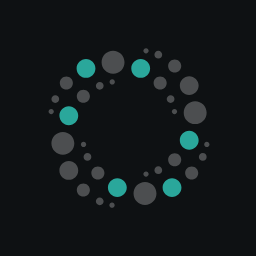
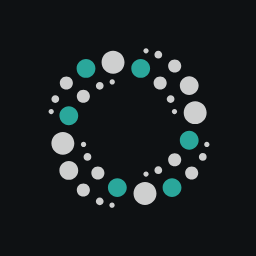
feat(brand): brighten the mark's non-brand dots to near-white
They sat at 26% opacity on every surface the mark appears on. On the
graphite icon tile that resolves to roughly #3F4142, so at the 32px the
extensions list actually renders only the six teal dots read and the rest
of the ring collapsed into a smudge.

The icon sources go to 80% white rather than a flat #FFFFFF: rendered
side by side at 0.26/0.45/0.6/0.75/0.9/1.0, full white outnumbers the six
teal dots and the mark stops reading as teal at thumbnail size. The
sidebar gauge takes 85% of currentColor for both its unlit and texture
dots — hardcoding white there would invert on the light theme, where the
mark sits on #f3f3f3. Lit dots still differ from unlit in hue, so the
window count stays readable.

diff --git a/src/webview/styles.ts b/src/webview/styles.ts
@@ -14,11 +14,13 @@ export const CSS = `
 
   /* The mark is the sidebar's status display: lit dots are open Agent Flow
      windows. Unlit and texture dots ride the theme foreground so the ring keeps
-     its shape on any background. */
+     its shape on any background, and sit just under it rather than at a quarter
+     of it — at .26 the ring read as a smudge at 15px. The count stays legible
+     because lit/unlit differ in hue, not only in weight. */
   .gauge { flex: none; display: block; }
   .gauge .lit { fill: var(--brand); }
-  .gauge .unlit { fill: currentColor; opacity: .26; }
-  .gauge .tex { fill: currentColor; opacity: .4; }
+  .gauge .unlit { fill: currentColor; opacity: .85; }
+  .gauge .tex { fill: currentColor; opacity: .85; }
   /* The pool's one filled control is Take. Explore is the way out when no ticket
      fits — useful, not primary — so it shares the secondary action language below
      with Address PR and the sprint actions, rather than repeating it. */

diff --git a/CHANGELOG.md b/CHANGELOG.md
@@ -7,6 +7,19 @@ and this project adheres to [Semantic Versioning](https://semver.org/spec/v2.0.0
 
 ## [Unreleased]
 
+### Changed
+
+- **The mark's non-brand dots are near-white instead of dark grey.** They sat at 26%
+  opacity everywhere they appear — in the extension icon that resolved to roughly
+  `#3F4142` on the graphite tile, so at the 32px the extensions list actually renders
+  only the six teal dots read and the rest of the ring turned into a smudge. The
+  extension and Marketplace icons now draw them at 80% white (`media/icon-src.svg`,
+  `media/icon-store-src.svg`, PNGs re-rendered at 256×256), and the sidebar's gauge
+  mark takes the theme foreground at 85% for both its unlit and texture dots, so it
+  stays theme-correct on light backgrounds instead of hardcoding white. The teal is
+  unchanged, and the gauge count is still readable because lit and unlit dots differ
+  in hue, not only in weight.
+
 ## [0.1.52] — 2026-08-04
 
 ### Fixed
